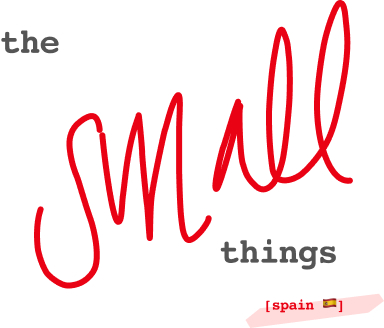
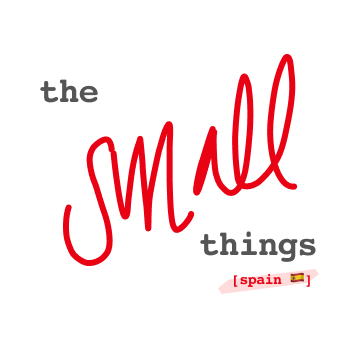
chg metaphoto

diff --git a/photos.html b/photos.html
@@ -5,7 +5,7 @@
     <title>misc phots</title>
 </head>
 <body>
-<img src="img/logo.jpg">
+<img src="img/banner-small.jpg">
 <img src="img/projects/smallthingsspain/smallthingsspain-icon.jpg">
 
 </body>
